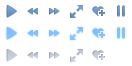
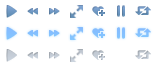
layout fix

diff --git a/APPLICATION/Styles/player.css b/APPLICATION/Styles/player.css
@@ -96,15 +96,21 @@
 .playerBlock.fullView .playerMainBlock .buttonBlock .repeat
 {
     display: block;
-    background: url(../Images/player/playerBtns.png) -42px -43px no-repeat;
+    background-position: -130px 0;
     margin-left: 4px;
 }
 
 .playerBlock.fullView .playerMainBlock .buttonBlock .repeat:hover, 
 .playerBlock.fullView .playerMainBlock .buttonBlock .active
 {
-    background-position: -42px -65px;
+    background-position: -130px -22px;
     margin-left: 4px;
+}
+
+.playerBlock.fullView .playerMainBlock.locked .buttonBlock .repeat
+{
+    background-position: -130px -44px;
+    cursor: default;
 }
 
 .buttonBlock
@@ -262,6 +268,12 @@
     border: 0;
 }
 
+.playerMainBlock.locked .centerPart .trackSlider .ui-slider-handle, 
+.playerMainBlock.locked .centerPart .trackVolume .ui-slider-handle
+{
+    cursor: default;
+}
+
 .centerPart .trackSlider .ui-slider-handle:hover
 {
     background-position:  center bottom;
@@ -292,17 +304,22 @@
     width: 22px;
     height: 22px;
     cursor: pointer;
-    background: url(../images/Player/sound.png) -22px 0 no-repeat;
+    background: url(../images/Player/sound.png) 0 0 no-repeat;
     float: left;
     margin: -5px 3px 0 -3px;
 }
 
 .playerBlock.fullView .playerMainBlock .centerPart .soundIco:hover {
-    background-position: -22px -22px;
+    background-position: 0 -22px;
+}
+
+.playerBlock.fullView .playerMainBlock.locked .centerPart .soundIco {
+    background-position: 0 -44px;
+    cursor: default;
 }
 
 .playerBlock.fullView .playerMainBlock .centerPart .soundIco.mute {
-    background: url(../images/Player/sound.png) 0 0 no-repeat;
+    background: url(../images/Player/mute.png) 0 0 no-repeat;
 }
 
 .playerBlock.fullView .playerMainBlock .centerPart .soundIco.mute:hover {
@@ -315,7 +332,7 @@
     height: 22px;
     float: right;
     background: url(../images/Player/playerBtnsV2.png) -66px -0 no-repeat;
-    margin: 7px 18px 0 0;
+    margin: 7px 17px 0 0;
     cursor: pointer;
     }
 
@@ -373,7 +390,7 @@
     background: url(../images/no-image100x100.png) center top no-repeat;
 }
 
-.playerHeader .albumCover img{
+.playerHeader .albumCover img {
     border: 1px solid transparent;
 }
 
@@ -463,13 +480,13 @@
 }
 
 .playerHeader .bottomButtonsBlock .dropDownBlock {
-    margin-left: -160px;
+    margin-left: -165px;
     z-index: 999999;
     width: 170px;
 }
 
 .playerHeader .bottomButtonsBlock .dropDownBlock .dropmenuArrow {
-    left: 160px
+    left: 164px
 }
 
 .bottomButtonsBlock .menuTriangle .dropDownBlock {

diff --git a/APPLICATION/Styles/albums.css b/APPLICATION/Styles/albums.css
@@ -39,13 +39,13 @@
 }
 
 .albumsBLock .albumBlock .albumInfoIcos .triangle .dropDownBlock.albumDropListShist {
-    margin-left: -90px;
+    margin-left: -150px;
     margin-top: 40px;
-    width: 100px;
+    width: 160px;
 }
 
-.albumsBLock .albumBlock .albumInfoIcos .triangle .dropDownBlock.albumDropListShist .dropmenuArrow{
-    left: 88px;
+.albumsBLock .albumBlock .albumInfoIcos .triangle .dropDownBlock.albumDropListShist .dropmenuArrow {
+    left: 148px;
 }
 
 .albumsBLock .albumBlock .albumInfoIcos .triangle .dropDownBlock .subnavIcons {
@@ -56,11 +56,18 @@
     background: url("../Images/player/headerIcons.png") 0 0 no-repeat;
 }
 
-
 .albumsBLock .albumBlock .albumInfoIcos .triangle .dropDownBlock .subnavIcons.likeIt {
     background-position: -37px 0;
 }
 
-.albumsBLock .albumBlock .albumInfoIcos .triangle .dropDownBlock a:hover .subnavIcons.likeIt  {
+.albumsBLock .albumBlock .albumInfoIcos .triangle .dropDownBlock a:hover .likeIt  {
     background-position: -37px -15px;
+}
+
+.albumsBLock .albumBlock .albumInfoIcos .triangle .dropDownBlock .subnavIcons.addToFavorite {
+    background: url(../images/Player/playerBtns.png) -25px -47px no-repeat;
+}
+
+.albumsBLock .albumBlock .albumInfoIcos .triangle .dropDownBlock a:hover .addToFavorite  {
+    background-position: -25px -69px;
 }

diff --git a/APPLICATION/Html/albums.html b/APPLICATION/Html/albums.html
@@ -71,6 +71,9 @@
                         <div class='dropmenuArrow'></div>
                         <ul class='subNavigation'>
                             <li>
+                                <a href='#'><div class='subnavIcons addToFavorite'></div>Добавить в избраное</a>
+                            </li>
+                            <li>
                                 <a href='#'><div class='subnavIcons likeIt'></div>Нравится</a>
                             </li>
                         </ul>
